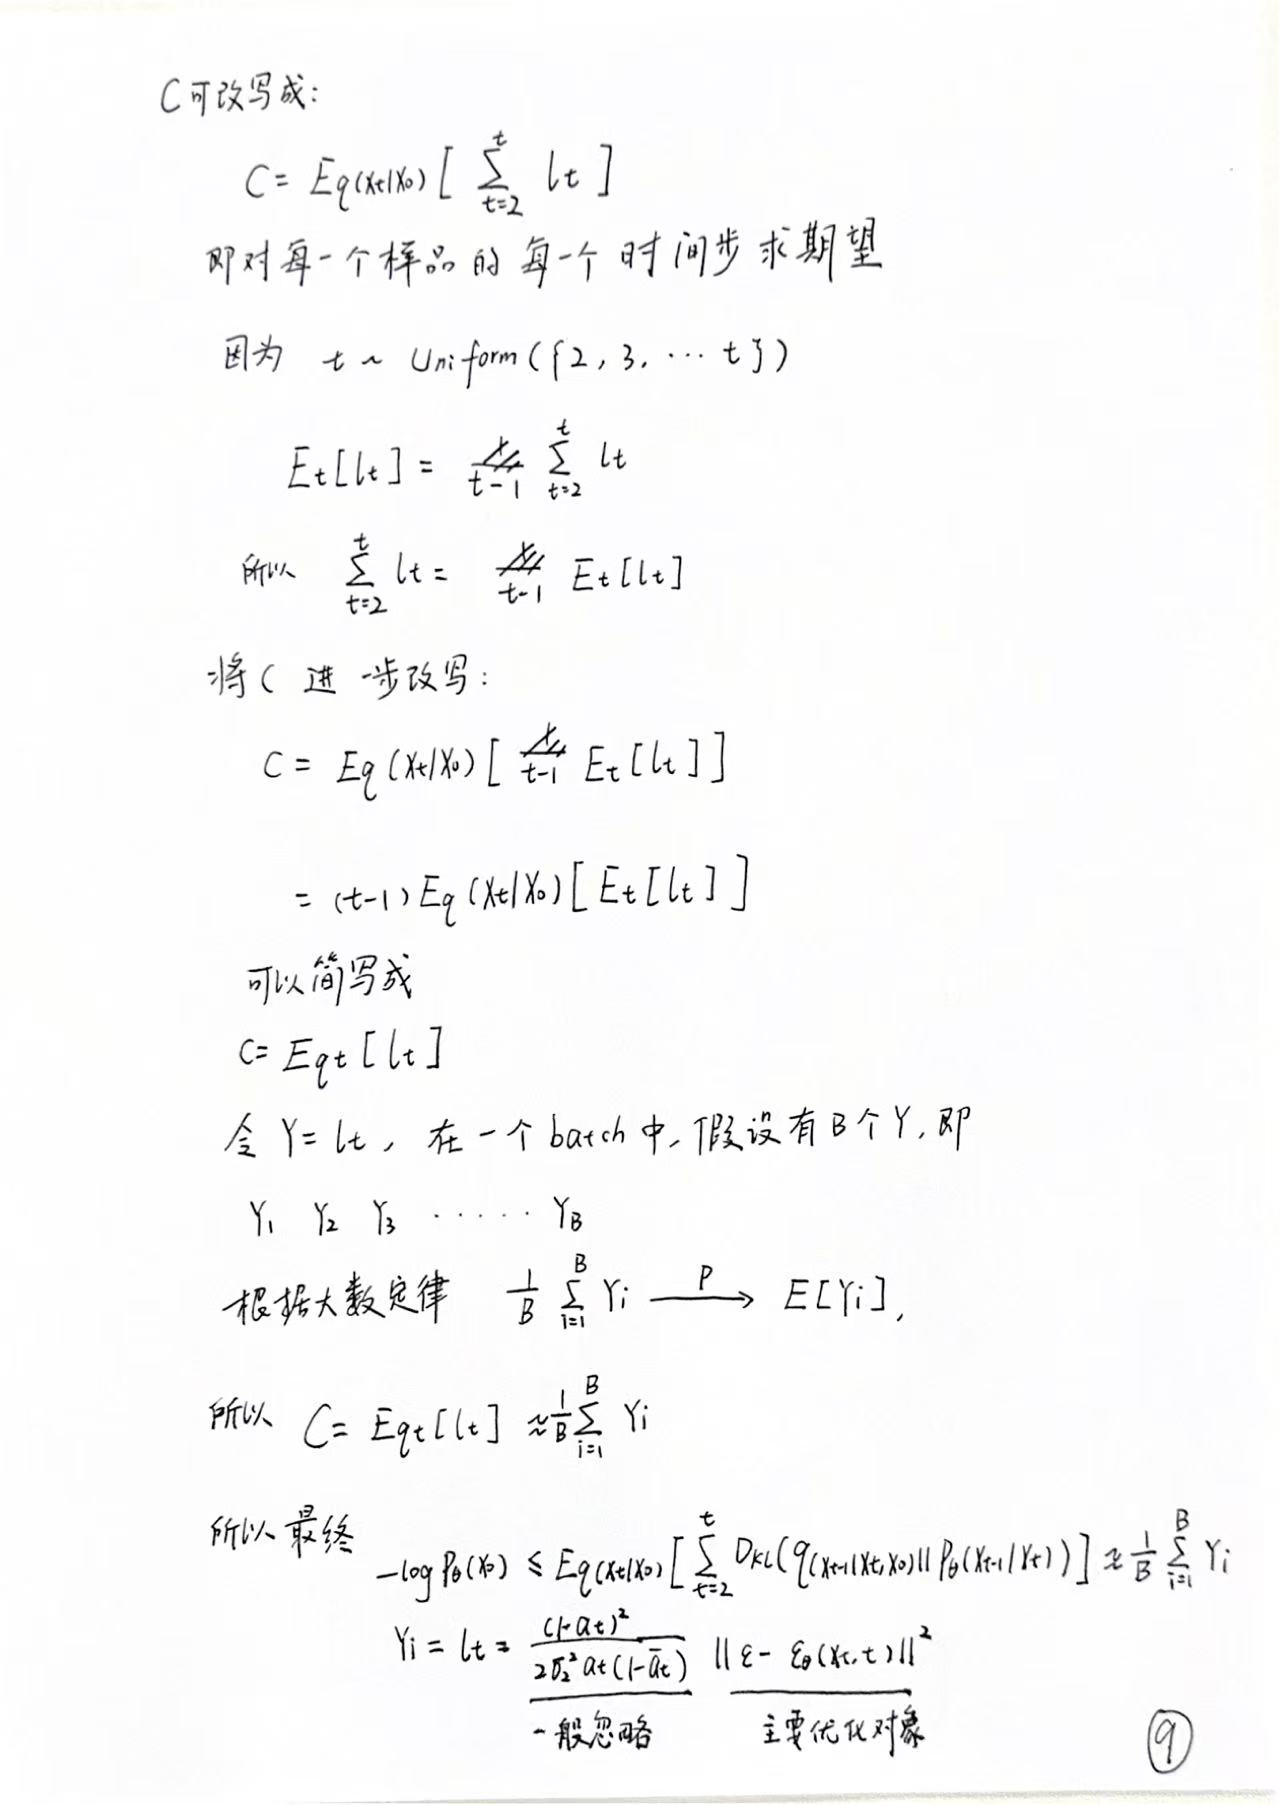
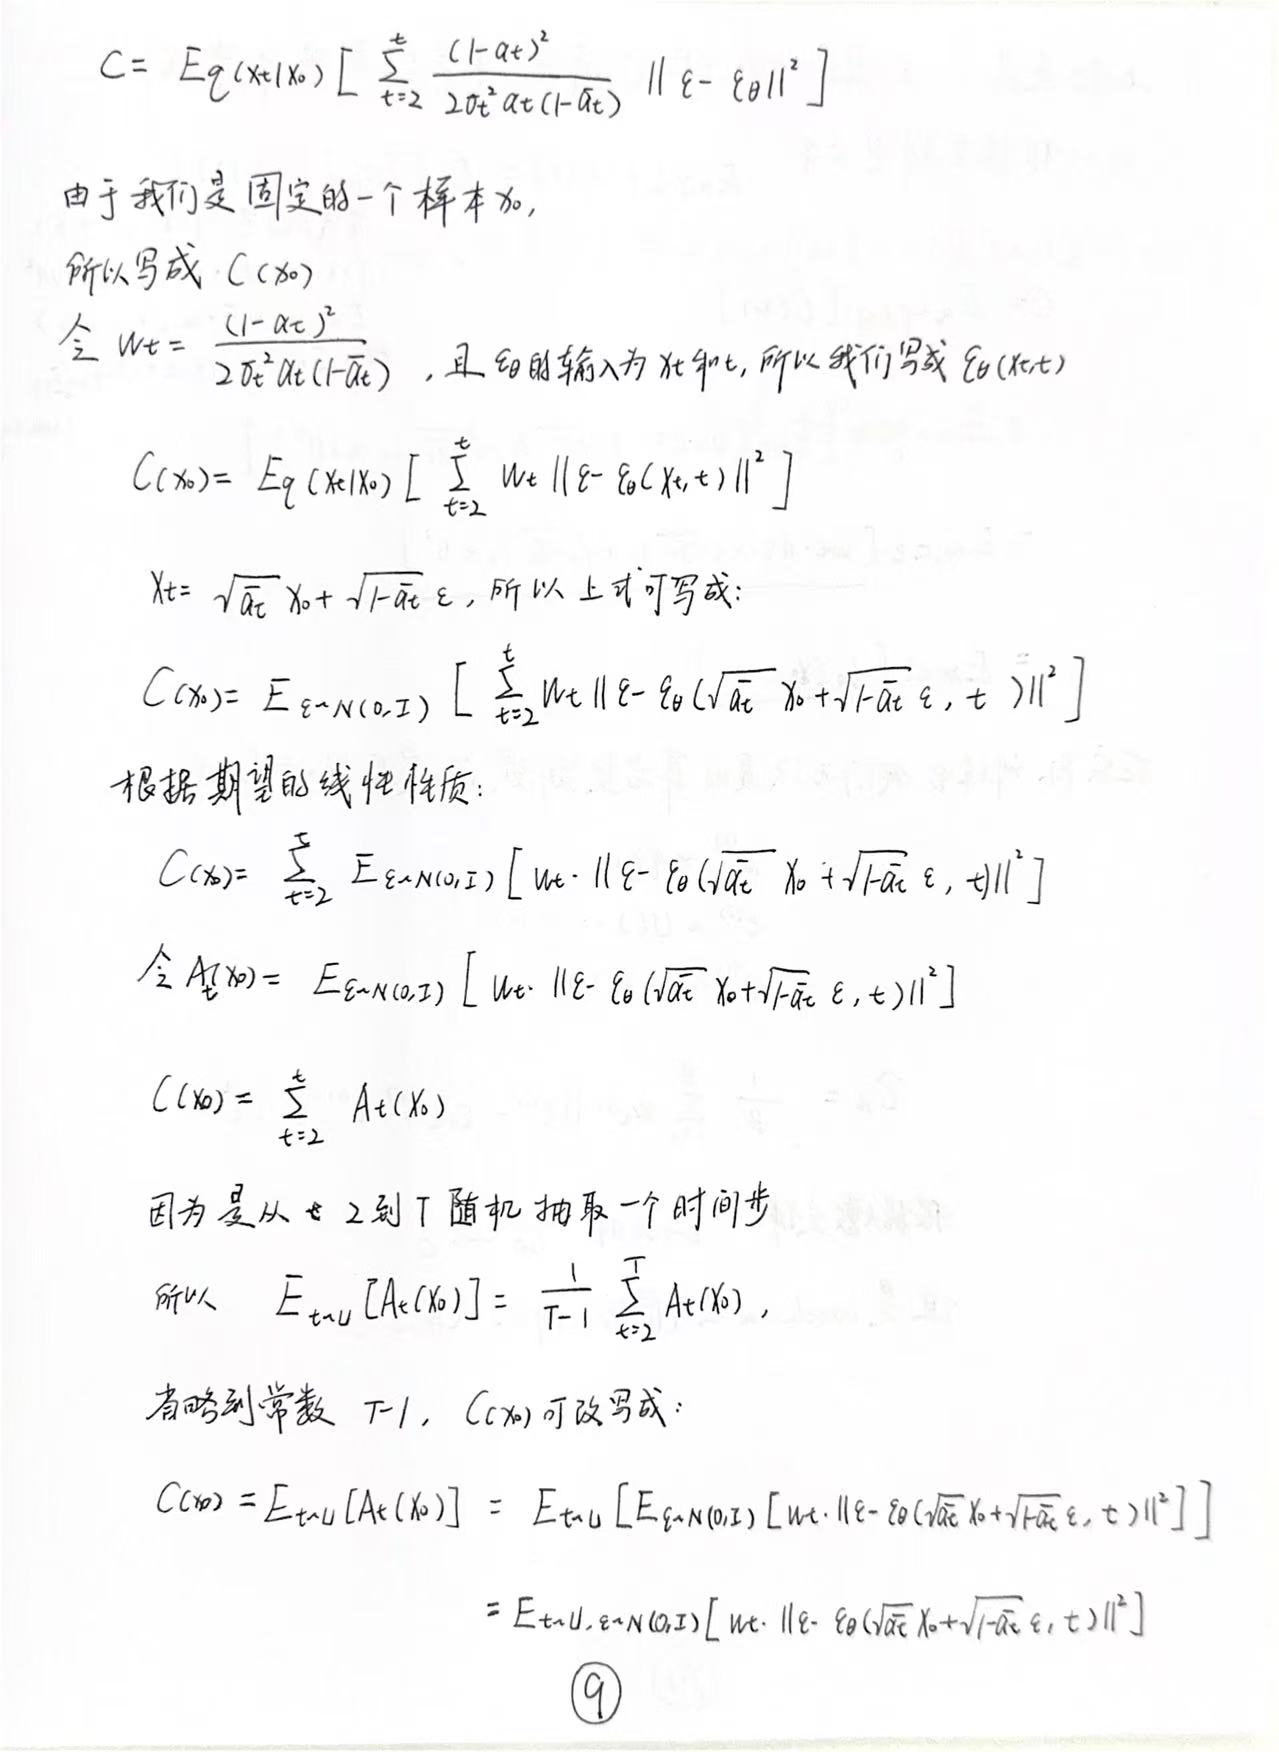
Site updated: YYYY-06-2026年6月8日 16:45:25

diff --git a/2026/06/03/Denoising-Diffusion-Probabilistic-Models/index.html b/2026/06/03/Denoising-Diffusion-Probabilistic-Models/index.html
@@ -44,10 +44,12 @@
 <meta property="og:image" content="https://pandas-zwx.github.io/2026/06/03/Denoising-Diffusion-Probabilistic-Models/R5.jpg">
 <meta property="og:image" content="https://pandas-zwx.github.io/2026/06/03/Denoising-Diffusion-Probabilistic-Models/R6.jpg">
 <meta property="og:image" content="https://pandas-zwx.github.io/2026/06/03/Denoising-Diffusion-Probabilistic-Models/R7.jpg">
-<meta property="og:image" content="https://pandas-zwx.github.io/2026/06/03/Denoising-Diffusion-Probabilistic-Models/R8.jpg">
+<meta property="og:image" content="https://pandas-zwx.github.io/2026/06/03/Denoising-Diffusion-Probabilistic-Models/R8.png">
 <meta property="og:image" content="https://pandas-zwx.github.io/2026/06/03/Denoising-Diffusion-Probabilistic-Models/R9.jpg">
+<meta property="og:image" content="https://pandas-zwx.github.io/2026/06/03/Denoising-Diffusion-Probabilistic-Models/R10.jpg">
+<meta property="og:image" content="https://pandas-zwx.github.io/2026/06/03/Denoising-Diffusion-Probabilistic-Models/R11.jpg">
 <meta property="article:published_time" content="2026-06-03T12:57:07.000Z">
-<meta property="article:modified_time" content="2026-06-05T16:59:13.121Z">
+<meta property="article:modified_time" content="2026-06-08T08:45:17.782Z">
 <meta property="article:author" content="Pandas-zwx">
 <meta property="article:tag" content="diffusion model">
 <meta name="twitter:card" content="summary">
@@ -349,7 +351,7 @@ mjx-container[display="true"] + br {
         <i class="far fa-calendar-check"></i>
       </span>
       <span class="post-meta-item-text">Edited on</span>
-      <time title="Modified: 2026-06-06 00:59:13" itemprop="dateModified" datetime="2026-06-06T00:59:13+08:00">2026-06-06</time>
+      <time title="Modified: 2026-06-08 16:45:17" itemprop="dateModified" datetime="2026-06-08T16:45:17+08:00">2026-06-08</time>
     </span>
     <span class="post-meta-item">
       <span class="post-meta-item-icon">
@@ -481,7 +483,7 @@ mjx-container[display="true"] + br {
 </figure>
 
 <figure>
-  <img src="R8.jpg" alt="R8.jpg">
+  <img src="R8.png" alt="R8.png">
   <figcaption>图18 扩散模型的 Reverse process 8</figcaption>
 </figure>
 
@@ -489,6 +491,18 @@ mjx-container[display="true"] + br {
   <img src="R9.jpg" alt="R9.jpg">
   <figcaption>图19 扩散模型的 Reverse process 9</figcaption>
 </figure>
+
+<figure>
+  <img src="R10.jpg" alt="R10.jpg">
+  <figcaption>图20 扩散模型的 Reverse process 10</figcaption>
+</figure>
+
+<figure>
+  <img src="R11.jpg" alt="R11.jpg">
+  <figcaption>图21 扩散模型的 Reverse process 11</figcaption>
+</figure>
+
+
 
 
       </div>

diff --git a/index.html b/index.html
@@ -325,7 +325,7 @@ mjx-container[display="true"] + br {
         <i class="far fa-calendar-check"></i>
       </span>
       <span class="post-meta-item-text">Edited on</span>
-      <time title="Modified: 2026-06-06 00:59:13" itemprop="dateModified" datetime="2026-06-06T00:59:13+08:00">2026-06-06</time>
+      <time title="Modified: 2026-06-08 16:45:17" itemprop="dateModified" datetime="2026-06-08T16:45:17+08:00">2026-06-08</time>
     </span>
     <span class="post-meta-item">
       <span class="post-meta-item-icon">

diff --git a/css/main.css b/css/main.css
@@ -1432,7 +1432,7 @@ pre code {
   vertical-align: middle;
 }
 .links-of-author a::before {
-  background: #1f53ff;
+  background: #55ff6b;
   display: inline-block;
   margin-right: 3px;
   transform: translateY(-2px);
